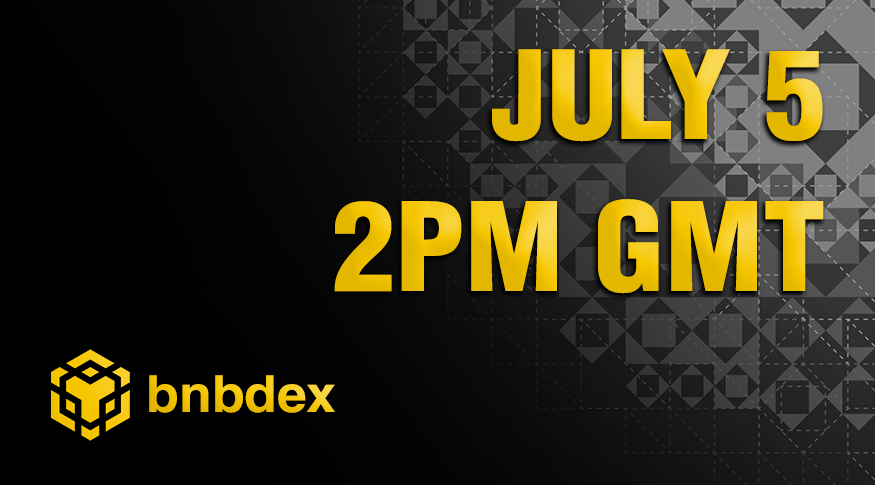
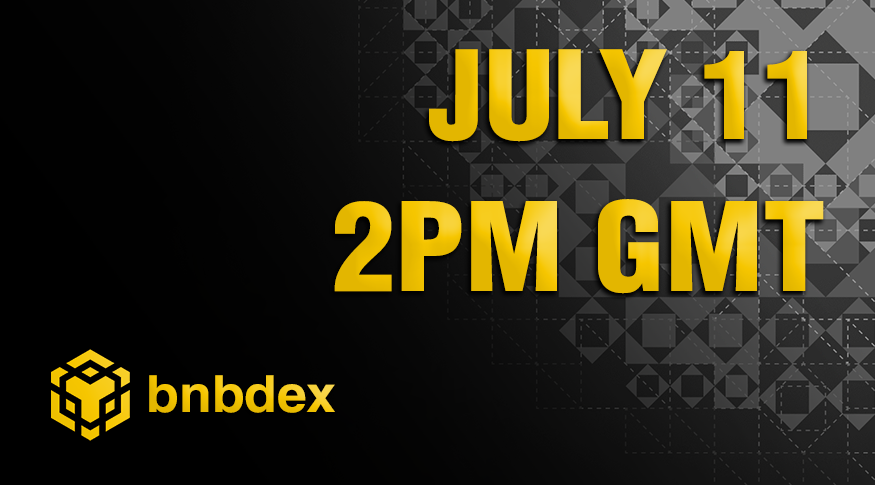
x

Changed region(s): [[0.4629, 0.0928, 0.9566, 0.3093]]

diff --git a/countdown.js b/countdown.js
@@ -18,7 +18,7 @@ function(a){return x(this,a)};z=function(a){var b=[],c=a.millennia;c&&b.push(f(c
 d.CENTURIES=512;d.MILLENNIA=1024;d.DEFAULTS=222;d.ALL=2047;var E=d.setFormat=function(a){if(a){if("singular"in a||"plural"in a){var b=a.singular||[];b.split&&(b=b.split("|"));var c=a.plural||[];c.split&&(c=c.split("|"));for(var d=0;10>=d;d++)p[d]=b[d]||p[d],q[d]=c[d]||q[d]}"string"===typeof a.last&&(r=a.last);"string"===typeof a.delim&&(t=a.delim);"string"===typeof a.empty&&(u=a.empty);"function"===typeof a.formatNumber&&(y=a.formatNumber);"function"===typeof a.formatter&&(f=a.formatter)}},C=d.resetFormat=
 function(){p=" millisecond; second; minute; hour; day; week; month; year; decade; century; millennium".split(";");q=" milliseconds; seconds; minutes; hours; days; weeks; months; years; decades; centuries; millennia".split(";");r=" and ";t=", ";u="";y=function(a){return a};f=D};d.setLabels=function(a,b,c,d,f,k,m){E({singular:a,plural:b,last:c,delim:d,empty:f,formatNumber:k,formatter:m})};d.resetLabels=C;C();v&&v.exports?v.exports=d:"function"===typeof window.define&&"undefined"!==typeof window.define.amd&&
 window.define("countdown",[],function(){return d});return d}(module);
-var release_date = 1625493600 * 1e3;
+var release_date = 1626012000 * 1e3;
 function formatAmount(n) {
     var ranges = [
         { divider: 1e18 , suffix: 'E' },

diff --git a/index.html b/index.html
@@ -45,7 +45,7 @@
     <br>
     <br>
     <div countdown container>
-        <h3 id="countdown" style="text-align: center">Launching on July 5, 2PM GMT</h3>
+        <h3 id="countdown" style="text-align: center">Launching on July 11, 2PM GMT</h3>
     </div>
     <br>
     <br>
@@ -63,6 +63,6 @@
     <br>
     <br>
 <script src="jquery.min.js"></script>
-<script src="countdown.js"></script>
+<script src="countdown.js?v=11"></script>
 </body>
 </html>
